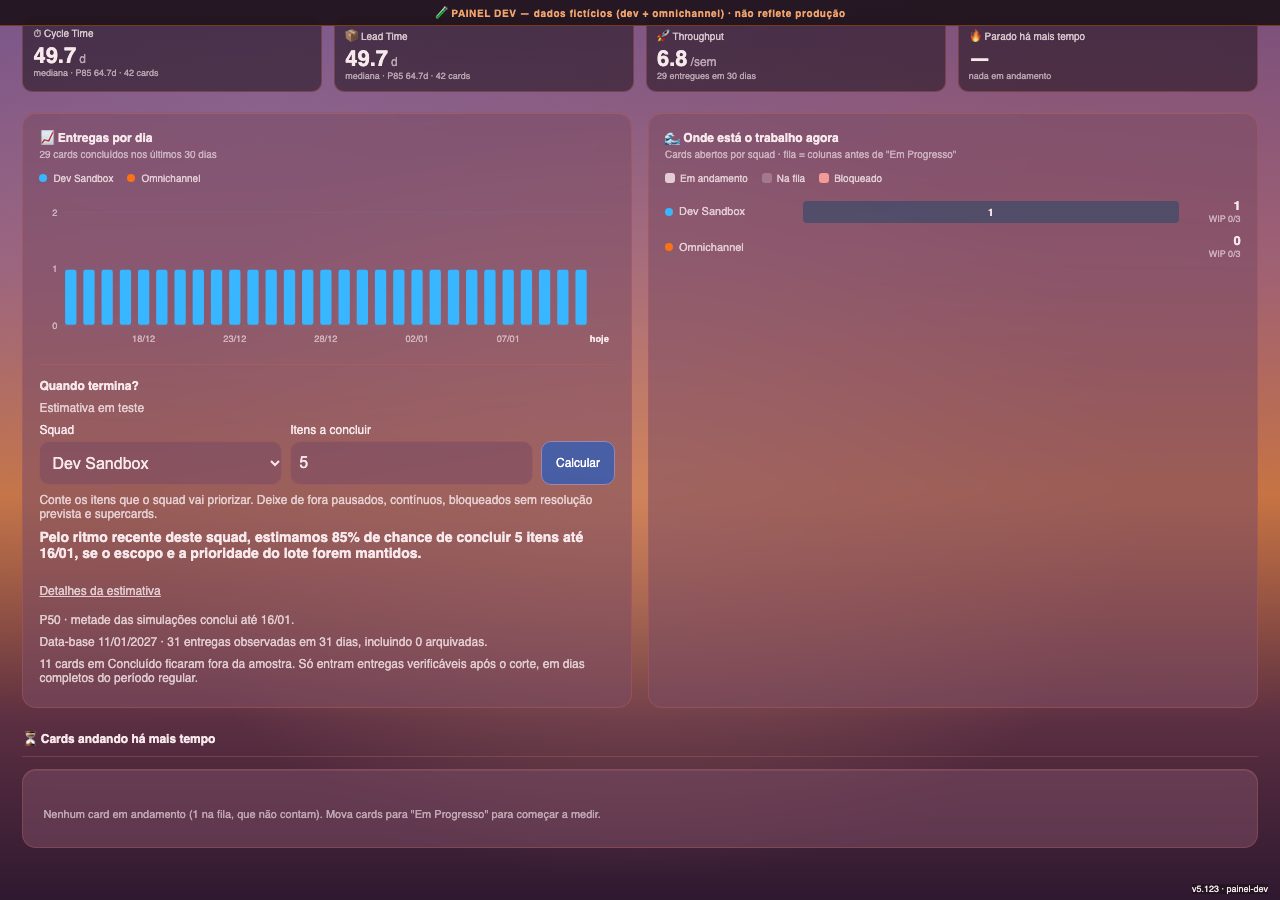
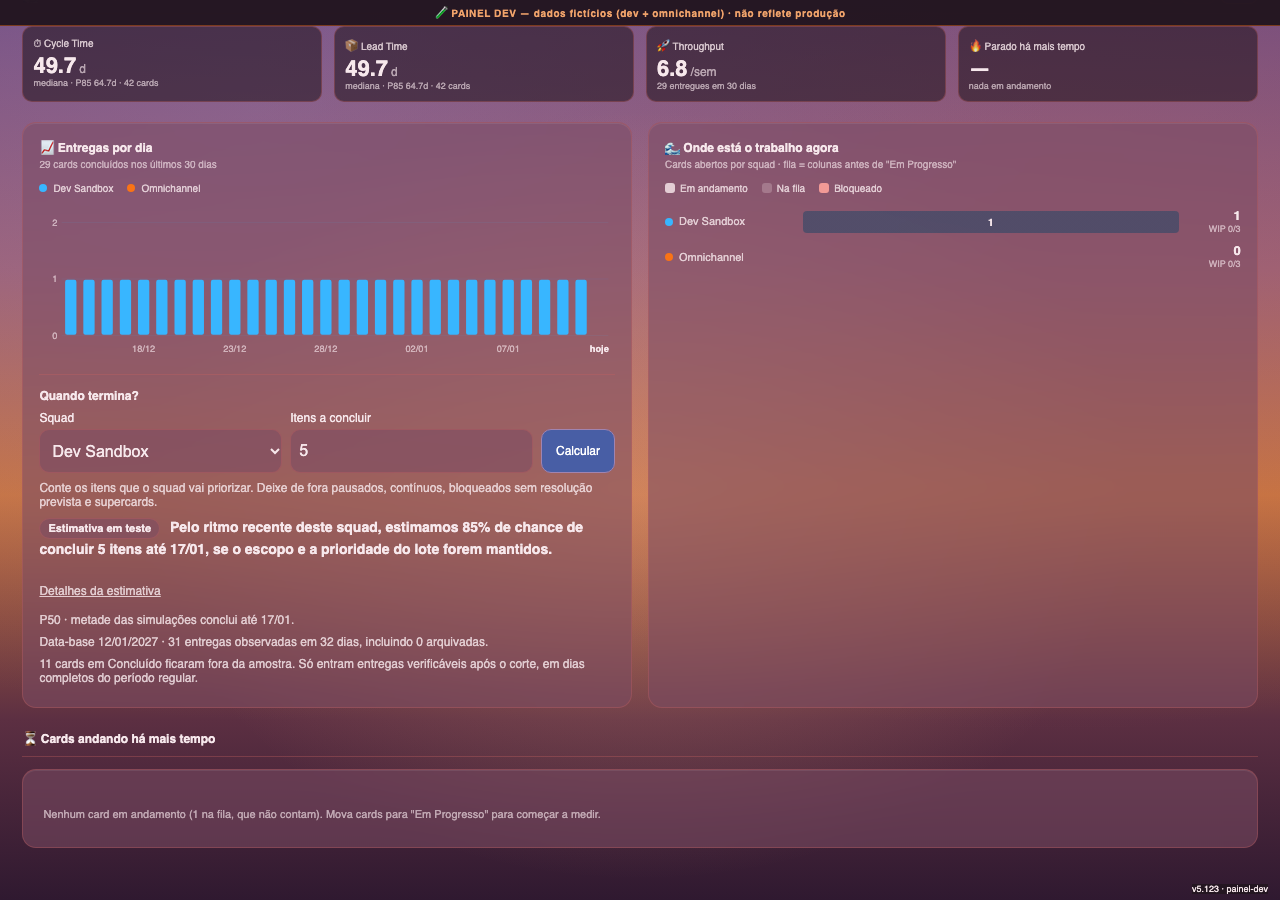
fix: exige dados do dia para prever conclusão
Agent: codex

diff --git a/painel-dev.html b/painel-dev.html
@@ -1634,7 +1634,9 @@ body.painel-viewer-mode [data-sqid]{ display:none !important; }
   border:1px solid var(--glass-b);border-radius:var(--r);background:var(--glass);color:var(--txt);}
 .flow-forecast summary{display:flex;align-items:center;cursor:pointer;text-decoration:underline;}
 .flow-forecast :is(input,select,button,summary):focus-visible{outline:2px solid var(--accent);outline-offset:2px;}
-#flow-forecast-status{font-size:14px;font-weight:600;}
+.flow-forecast-result{font-size:14px;font-weight:600;line-height:1.55;}
+.flow-forecast-badge{display:inline-block;margin-right:6px;padding:1px 8px;border:1px solid var(--glass-b);
+  border-radius:999px;background:var(--glass);color:var(--txt);font-size:11px;white-space:nowrap;}
 @media(max-width:600px){.flow-forecast form{grid-template-columns:minmax(0,1fr);}}
 
 [data-theme="light"] .pt-avatar{color:var(--txt);background:var(--glass);}
@@ -1969,14 +1971,16 @@ window.MARE_LOGIN_PELO_OCEANO = true;
         <div class="tp-chart-wrap" id="throughput-chart"></div>
         <section id="flow-forecast" class="flow-forecast" aria-labelledby="flow-forecast-title" hidden>
           <h3 id="flow-forecast-title" class="flow-card-hd">Quando termina?</h3>
-          <p class="flow-forecast-note">Estimativa em teste</p>
           <form id="flow-forecast-form">
             <label>Squad<select id="flow-forecast-squad" class="fi"></select></label>
             <label>Itens a concluir<input id="flow-forecast-count" class="fi" type="number" required min="1" step="1" inputmode="numeric"></label>
             <button class="btn btn-p" type="submit">Calcular</button>
           </form>
           <p class="flow-forecast-note">Conte os itens que o squad vai priorizar. Deixe de fora pausados, contínuos, bloqueados sem resolução prevista e supercards.</p>
-          <p id="flow-forecast-status" role="status">Escolha um squad e informe quantos itens quer planejar.</p>
+          <p class="flow-forecast-result" role="status">
+            <span id="flow-forecast-badge" class="flow-forecast-badge" hidden>Estimativa em teste</span>
+            <span id="flow-forecast-status">Escolha um squad e informe quantos itens quer planejar.</span>
+          </p>
           <details id="flow-forecast-details" hidden>
             <summary>Detalhes da estimativa</summary>
             <p id="flow-forecast-median"></p>
@@ -12228,6 +12232,7 @@ function _forecastDistributions({buckets,future}){
 let _forecastResultConfig=null;
 function _forecastReset(){
   _forecastResultConfig=null;
+  document.getElementById('flow-forecast-badge').hidden=true;
   document.getElementById('flow-forecast-details').hidden=true;
   document.getElementById('flow-forecast-status').textContent='Escolha um squad e informe quantos itens quer planejar.';
 }
@@ -12252,9 +12257,17 @@ let _forecastSuggestionReady=false;
 function _forecastConfig(data){
   return JSON.stringify([data.flowBaseline?.at,_forecastFinalColumns(data).map(c=>c.id)]);
 }
+function _forecastHasFreshData(id,today){
+  const fetchedAt=_squadDadosAt[id];
+  return !_squadDadosFailed.has(id) && !!squadData[id]?.forecastHasColumns
+    && Number.isFinite(fetchedAt) && _forecastCivil(fetchedAt)>=today;
+}
+
 function _renderFlowForecast(){
   const section=document.getElementById('flow-forecast');
   const select=document.getElementById('flow-forecast-squad');
+  const status=document.getElementById('flow-forecast-status');
+  if(!section || !select?.options || !status) return;
   const pilots=SQUADS.filter(s=>FLOW_FORECAST_PILOTS.includes(s.id) && squadVisible(s.id));
   section.hidden=!pilots.length;
   const old=select.value;
@@ -12276,7 +12289,9 @@ function _renderFlowForecast(){
   if(_forecastResultConfig!==null && (!data?.forecastHasColumns || _forecastResultConfig!==_forecastConfig(data))) _forecastReset();
   if(pilots.length && _squadDadosFailed.has(select.value)){
     _forecastReset();
-    document.getElementById('flow-forecast-status').textContent=FLOW_FORECAST_MESSAGES.data;
+    status.textContent=FLOW_FORECAST_MESSAGES.data;
+  } else if(status.textContent===FLOW_FORECAST_MESSAGES.data && _forecastHasFreshData(select.value,_forecastCivil(Date.now()))){
+    _forecastReset();
   }
 }
 
@@ -12295,7 +12310,11 @@ document.getElementById('flow-forecast-form').addEventListener('submit',event=>{
   }
   const today=_forecastCivil(Date.now());
   const data=squadData[id];
-  const sample=_forecastSample(!_squadDadosFailed.has(id) && data?.forecastHasColumns ? data : null,today);
+  if(!_forecastHasFreshData(id,today)){
+    status.textContent=FLOW_FORECAST_MESSAGES.data;
+    return;
+  }
+  const sample=_forecastSample(data,today);
   if(sample.state!=='ready'){
     status.textContent=FLOW_FORECAST_MESSAGES[sample.state];
     return;
@@ -12312,6 +12331,7 @@ document.getElementById('flow-forecast-form').addEventListener('submit',event=>{
   document.getElementById('flow-forecast-exclusions').textContent=sample.excluded+
     ' cards em Concluído ficaram fora da amostra. Só entram entregas verificáveis após o corte, em dias completos do período regular.';
   _forecastResultConfig=_forecastConfig(data);
+  document.getElementById('flow-forecast-badge').hidden=false;
   document.getElementById('flow-forecast-details').hidden=false;
 });
 

diff --git a/docs/arezzo/testes/test_painel_monte_carlo.js b/docs/arezzo/testes/test_painel_monte_carlo.js
@@ -185,6 +185,7 @@ async function main(){
     await clickCalculate(page,150);
     await checkMessage(page,/nos próximos 30 dias/);
     assert.ok(await page.locator('#flow-forecast-details').isHidden());
+    assert.ok(await page.locator('#flow-forecast-badge').isHidden());
     for(const [day,re] of [
       ['2026-11-18',/pausa na Black Friday/],['2027-01-07',/28 dias/],['2027-01-08',/quatro ocorrências/],
     ]){
@@ -193,7 +194,22 @@ async function main(){
       await checkMessage(page,re);
     }
 
-    await page.clock.setFixedTime(new Date('2027-01-11T13:00:00Z'));
+    await page.clock.setFixedTime(new Date('2027-01-11T23:59:00-03:00'));
+    await clickCalculate(page,5);
+    await checkMessage(page,/85% de chance/);
+    await page.clock.setFixedTime(new Date('2027-01-12T00:00:00-03:00'));
+    const beforeStale=await page.evaluate(()=>window.__log.length);
+    await clickCalculate(page,5);
+    await checkMessage(page,/Atualize o Painel/);
+    assert.ok(await page.locator('#flow-forecast-details').isHidden());
+    assert.ok(await page.locator('#flow-forecast-badge').isHidden());
+    assert.deepEqual(await page.evaluate(start=>window.__log.slice(start),beforeStale),[]);
+    await page.evaluate(()=>_pollSquadDados('dev',true));
+    await page.waitForFunction(()=>_squadDadosAt.dev===Date.now() && !_squadDadosInflight.dev);
+    await clickCalculate(page,5);
+    await checkMessage(page,/85% de chance/);
+    console.log('✅ Virada da meia-noite em São Paulo recusa dados do dia anterior sem buscar; atualizar libera o cálculo');
+
     await page.evaluate(()=>{
       window.__denyGet=p=>p.endsWith('/dev/dados/columns');
       _pollSquadDados('dev',true);
@@ -202,7 +218,8 @@ async function main(){
     await clickCalculate(page,5);
     await checkMessage(page,/Atualize o Painel/);
     await page.evaluate(()=>{window.__denyGet=null;_pollSquadDados('dev',true);});
-    await page.waitForFunction(()=>!_squadDadosFailed.has('dev'));
+    await page.waitForFunction(()=>!_squadDadosFailed.has('dev') && !_squadDadosInflight.dev);
+    assert.doesNotMatch(await page.locator(status).textContent(),/Atualize o Painel/);
     await clickCalculate(page,5);
     await checkMessage(page,/85% de chance/);
     await page.evaluate(()=>setFilter('omnichannel'));
@@ -225,11 +242,13 @@ async function main(){
           return { overflow:section.scrollWidth>section.clientWidth,
             outOfViewport:box.left<0||box.right>innerWidth,
             heights:controls.map(el=>el.getBoundingClientRect().height),
-            status:section.querySelector('[role=status]').textContent };
+            status:section.querySelector('[role=status]').textContent,
+            badge:section.querySelector('#flow-forecast-badge').getBoundingClientRect().width };
         });
         assert.ok(!layout.overflow && !layout.outOfViewport,JSON.stringify(layout));
         assert.ok(layout.heights.every(h=>h>=44),JSON.stringify(layout));
-        assert.match(layout.status,/85%/);
+        assert.match(layout.status,/Estimativa em teste\s+Pelo ritmo recente.*85%/);
+        assert.ok(layout.badge>0);
         if(process.env.CAPTURAS){
           fs.mkdirSync(process.env.CAPTURAS,{recursive:true});
           await page.locator('#flow-forecast').evaluate(el=>el.scrollIntoView({block:'center'}));

diff --git a/docs/CODE_SYMBOLS.md b/docs/CODE_SYMBOLS.md
@@ -189,68 +189,68 @@
 - openMural:L44337 · _swMuralTab:L44343 · renderMuralLista:L44354 · _abrirComunicadoDoMural:L44382 · enviarFeedback:L44399 · _lsGet:L44437 · _lsSet:L44438 · wire:L44519 · frame:L44574 · updateFromClientX:L44578
 - stop:L44595
 
-## `painel-dev.html` (14413 linhas · 577 funções)
-- **CSS:** L12–L1658 | **JS:** L1659–L1668 (classic), L1669–L1682 (classic), L1683–L1689 (classic), L3241–L3367 (classic), L3370–L3476 (module), L3483–L14207 (classic) | **Módulos:** mare-notif-dev.js?v=44 (L3477), mare-metas-dev.js?v=19 (L3478), mare-plantao-dev.js?v=5 (L3479), mare-dicas-dev.js?v=18 (L3480), mare-gxl-dev.js?v=2 (L3481)
-- **Consts (123):** AG_NO:L3246 · AG_CFG:L3247 · AG_ABAS:L3248 · AG_PERIODOS:L3249 · AG_FILTRO_RE:L3250 · AG_ABA_ROTULO:L3251 · AG_CHIPS:L3253 · firebaseConfig:L3388 · app:L3405 · db:L3406 · auth:L3407 · storage:L3408 · provider:L3409 · calProvider:L3413 · msProvider:L3435 · VICE_LONGPRESS_MS:L3524 · _dbg:L3578 · _DBG_LOG_PATH:L3579 · _DBG_DAILY_PATH:L3580 · GERENCIAS:L3779 · OKR_PRESENCE_TTL_MS:L3961 · _SQUAD_COLORS_CAMP:L4029 · _SQ_LABELS:L4037 · CAMP_TEMAS:L4077 · CAMP_TIPO_ICONS:L4085 · CAMP_TIPO_LABELS:L4086 · MESES:L4229 · DOW:L4230 · _pTag:L4264 · KNOWN_SQUADS:L4743 · _SQ_FB:L4867 · PAINEL_CAMP_TEMAS:L4995 · PAINEL_SQ_COLORS:L4999 · SUBMARCA_TAGS:L5501 · CANAL_VENDA_TAGS:L5520 · LEMP_TIPOS:L5741 · PCAL_COLORS:L6027 · DYNAMIC_COLOR_PALETTE:L6039 · SQUAD_COLOR_MAP:L6063 · OKR_PAGE:L6083 (+83)
-- **[🤖 Agente Ágil no Painel — gaveta de conversa (docs/AGENTE_A]** agIniciar:L3261 · agEncerrar:L3280 · agContexto:L3285 · agAtualizarContexto:L3292 · agAlternar:L3297 · agEsc:L3306 · agEscutar:L3307 · agHora:L3312 · agMd:L3315 · agMsgHtml:L3323
-- agRender:L3333 · agIniciarEspera:L3344 · agFimEspera:L3348 · agPerguntar:L3349 · agEnviar:L3350 · agIr:L3360 · esc:L3377 · jsq:L3386 · _requestCalendarScope:L3417 · _signInMicrosoft:L3438
-- _fcmGetToken:L3459 · _fcmDeleteToken:L3460 · _signIn:L3463 · _signOut:L3464 · _currentTheme:L3493 · _applyThemeButtonIcon:L3498 · toggleTheme:L3505 · _themeBtnPointerDown:L3527 · _themeBtnPointerUp:L3536 · toggleViceCity:L3539
-- exitViceCity:L3547 · _dbgSize:L3581 · _dbgTrack:L3585 · _dbgMerge:L3593 · _dbgFlush:L3606 · _dbgStart:L3644 · debugBytesOn:L3650 · debugBytesOff:L3651 · debugBytesReport:L3656 · debugBytesRemote:L3664
-- debugBytesClearRemote:L3692 · _dbgDailyRows:L3695 · debugBytesHistory:L3713 · debugBytesExportCSV:L3724 · safeUrl:L3749 · _hrefOk:L3751 · _corCssOk:L3752 · _colsSegurasP:L3753 · _tagsSegurasP:L3754 · setFilter:L3758
-- gerenciaSquadIds:L3784 · renderGerenciaBar:L3791 · squadVisible:L3800 · openCfg:L3809 · closeCfg:L3831 · calcCfgEnd:L3836 · saveCfg:L3844 · showToast:L3867 · loadPresence:L3889 · renderOnline:L3902
-- _painelSendHeartbeat:L3933 · _painelPresenceStart:L3941 · loadPainelPresence:L3950 · loadOkrPresence:L3962 · renderOkrOnlineVisao:L3967 · renderPainelOnline:L3978 · _pGetTag:L4000 · _pGetCards:L4010 · _pGetColumns:L4013 · _pGetCardTags:L4016
-- _pOpenCard:L4022 · _pSafeUrl:L4026 · _sqColor:L4036 · _sqLabel:L4038 · setCampViewMode:L4045 · setCampSqFilter:L4065 · _campRef:L4097 · _isPOorOrg:L4098 · _campLogRef:L4099 · _logCampAction:L4100
-- _fmtCampLogTs:L4108 · _applyCampPerms:L4112 · openCampLogs:L4118 · closeOv:L4139 · _uiModalPainel:L4145 · uiAlert:L4169 · uiConfirm:L4170 · _dpOpen:L4176 · _dpOutside:L4195 · _dpClose:L4199
-- _dpNav:L4205 · _dpToday:L4211 · _dpPick:L4216 · _dpRender:L4225 · uiPrompt:L4260 · loadCampanhas:L4273 · openCamp:L4289 · campBack:L4299 · _applyTemaPanel:L4307 · renderCampList:L4314
-- openCampDetalhe:L4382 · renderCampDetalhe:L4393 · _campGridCtx:L4437 · _mdAttr:L4606 · _renderMd:L4607 · _renderEntrada:L4630 · campAddLink:L4661 · _renderComposerLinks:L4670 · saveCampEntrada:L4682 · delCampEntrada:L4710
-- openCampEdit:L4716 · _renderCampTagPicker:L4752 · campToggleTag:L4773 · campSelTema:L4780 · saveCamp:L4786 · openCampCardsGrid:L4830 · _renderCampCardsGrid:L4855 · _filterTimeline:L4895 · toggleCampComposer:L4932 · _renderFixedLinks:L4943
-- campAddFixedLink:L4952 · campDelFixedLink:L4963 · campDeleteFromDetail:L4970 · campDeleteCurrent:L4981
-- **[CAMPANHAS & COLEÇÕES — PAINEL (lista + gerenciamento)]** _painelSqColor:L5005 · loadPainelCampanhas:L5009 · _checkPainelAdmCamp:L5013 · renderPainelCamp:L5018 · loadGruposCamp:L5174 · _pmsSwitchTab:L5181 · openPainelCampMsEdit:L5190 · _pmsToggleSq:L5280 · painelCampActivateAll:L5288 · _pmsNovoGrupo:L5320
-- _pmsEditGrupo:L5326 · _pmsEditGrupoCampanhas:L5331 · _pmsSalvarGrupo:L5352 · _pmsDelGrupo:L5383 · _isPOouOrgEmAlgumSquad:L5403 · renderOKR:L5410 · renderRiscos:L5454 · _cardTagIds:L5536 · _pvDonutGradient:L5537 · _pvBarRow:L5548
-- renderPainelInsights:L5558 · _isAdmPainel:L5746 · _avisosQuadroSquad:L5749 · _collectLembretesPainel:L5772 · renderLembretesPainel:L5795 · _renderLempForm:L5838 · _updLempBtn:L5855 · addLembretePainel:L5860 · delLembretePainel:L5876 · loadAgentUsage:L5895
-- renderAgentLogs:L5912 · openPcModal:L5934 · closePcModal:L6004 · checklistPct:L6018 · _squadColorFor:L6053 · _pcalGcalErrors:L6072 · _isPtab:L6079 · togglePcalSection:L6080 · _iniciarPlantao:L6085 · swPtab:L6094
-- _restoreTab:L6125 · setPcalTab:L6136 · pcalNav:L6154 · pcalGoToday:L6160 · _gcalColorFor:L6177 · renderPcalSquadFilterBar:L6184 · togglePcalSquadFilter:L6197 · togglePcalPrazos:L6204 · getAllPcalPrazos:L6212 · getAllPcalEvents:L6231
-- _forcarLimpezaCacheGcal:L6252 · limpaPath:L6262 · _migrarSquadMidiaParaPrf:L6343 · _limparCampanhasTesteDoProd:L6421 · _applyGcalCacheCleaning:L6447 · renderPcal:L6492 · renderPcalGestao:L6527 · makePcalDay:L6548 · openPcalDayPopover:L6580 · closePcalDayPopover:L6632
-- renderPcalLegend:L6636 · openPevModal:L6658 · closePevModal:L6673 · deletePcalEvent:L6675 · renderPevColors:L6689 · selectPevColor:L6695 · getSelPevColor:L6696 · savePevEvent:L6702 · deletePevEvent:L6721 · loadPcalEvents:L6729
-- togglePcalAgendasCfg:L6777 · renderPcalAgendasList:L6785 · _pcalGcalTokenLimpar:L6831 · _pcalGcalToken:L6832 · addPcalAgenda:L6841 · removePcalAgenda:L6868 · _pcalGcalWarnBanner:L6890 · reconectarPcalGCal:L6894 · carregarPcalAgendasGlobais:L6906 · deletePcalGcalEvent:L7010
-- restorePcalGcalDismissed:L7021 · toggleMonitorSection:L7054 · setErrFilter:L7056 · getFilteredErrors:L7077 · setDateFilter:L7089 · renderErrors:L7094 · renderErrChart:L7164 · cycleErrStatus:L7214 · resolveAllErrors:L7222 · clearResolvedErrors:L7236
-- _fmtBytes:L7245 · _stPesoLoad:L7256 · _stPesoSave:L7263 · _ghStyleFor:L7287 · initGithubStatusMonitor:L7295 · _limparHtmlStatus:L7312 · _linkSeguroStatus:L7325 · _statusIncidenteRecente:L7333 · _setStatusPill:L7340 · loadGithubStatus:L7349
-- renderGithubStatusUI:L7399 · _fbMatchServicos:L7600 · initFirebaseStatusMonitor:L7630 · loadFirebaseStatus:L7644 · renderFirebaseStatusUI:L7711
-- **[🛡 SAÚDE DOS CARDS (03/11/2026)]** _scQuando:L7912 · _scPagina:L7913 · _scLer:L7914 · _scCausa:L7916 · _scPodeResolver:L7925 · _scMontarEventos:L7928 · _scSaude:L7953 · _scItemHtml:L7960 · _scRender:L7976 · _scResolver:L8007
-- _scCliqueLista:L8021 · loadSaudeCards:L8037 · loadStatusData:L8059 · deslogarTodos:L8177 · carregarConfigInatividade:L8188 · salvarConfigInatividade:L8204 · loadPainelNotifs:L8222 · _painelLoadLembretes:L8269 · _painelSyncFeed:L8285 · _mergePainelNotifs:L8292
-- _markOnePainelNotifRead:L8301 · markAllPainelNotifsRead:L8309 · clearReadPainelNotifs:L8338 · renderPainelNotifs:L8366 · _relTime:L8419 · togglePainelNotif:L8431 · _localDateStr:L8460 · loadComunicados:L8476 · _seedComunicadoRascunhos:L8681 · _comunicadoOndeTxt:L8718
-- _comunicadoSquadsAlvo:L8722 · _comunicadoAlvoLabel:L8727 · renderComunicadosLista:L8732 · _toggleArquivadosComunicado:L8779 · renderArquivadosComunicado:L8787 · arquivarComunicado:L8812 · reativarComunicado:L8821 · _ccToggleArquivar:L8829 · renderRascunhosComunicado:L8841 · descartarRascunhoComunicado:L8865
-- deleteComunicadoDireto:L8875 · _ccPopulaSquadSelect:L8884 · _ccToggleSquadChip:L8893 · _ccRenderSquadChips:L8905 · _ccGetSquadPayload:L8924 · _ccFormat:L8933 · openComunicadoCompose:L8943 · _ccTogglePrioridadeUI:L9002 · closeComunicadoCompose:L9018 · _painelResolveComunicadoAlvos:L9034
-- _painelNotifyBroadcast:L9066 · saveComunicado:L9098 · deleteComunicado:L9156 · _sanitizeComunicadoHtml:L9163 · loadFeedback:L9193 · setFbFilter:L9202 · renderFbLista:L9210 · _fbSetStatus:L9247 · _fbDelete:L9251 · loadUsoData:L9257
-- _errSqShort:L9422 · renderErrStatsCards:L9430 · renderErrSquadFilterRow:L9445 · loadErrorLogs:L9465 · loadAdmList:L9498 · renderAdmList:L9507 · addAdmEmail:L9525 · removeAdmEmail:L9544 · saveAdmEmails:L9566 · loadAgentesExternosPainel:L9599
-- renderAgentesExternosPainel:L9611 · _agenteExternoAutor:L9677 · criarAgenteExternoPainel:L9679 · salvarAgenteExternoPainel:L9714 · toggleAgenteExternoSquad:L9736 · excluirAgenteExternoPainel:L9750 · _fillAgentesLogSquadFilter:L9768 · loadAgentesTabData:L9775 · renderAgentesAtivosGrid:L9799 · renderAgentesLogCross:L9824
-- openAgentesHelp:L9857 · closeAgentesHelp:L9858 · _viewerRegistrarAcesso:L9873 · _viewerTempoRel:L9884 · _viewerDataBR:L9890 · _viewerStatus:L9892 · _viewerOrdena:L9901 · renderPainelViewers:L9905 · addPainelViewer:L9931 · removePainelViewer:L9944
-- openPainelViewersModal:L9951 · closePainelViewersModal:L9956 · isDadosEditor:L9966 · _todayStr:L9968 · _fmtDateBR:L9972 · _numVal:L9973 · loadDadosConfig:L9975 · loadDadosDiarios:L9988 · _pmetasUser:L9996 · renderDadosMetas:L9997
-- _pmetasPessoas:L10010 · dadosMetaNova:L10016 · dadosMetaEditar:L10020 · _pmetasIniciar:L10024 · renderDadosTab:L10028 · loadDadosFormForDate:L10049 · uploadDadosPdf:L10064 · renderDadosApresList:L10084 · addDadosApresentacao:L10097 · removeDadosApresentacao:L10109
-- saveDadosApresentacoes:L10114 · publishDadosPost:L10120 · editDadosPost:L10153 · deleteDadosPost:L10159 · renderDadosHistorico:L10167 · renderDadosEditorList:L10193 · addDadosEditor:L10219 · removeDadosEditor:L10232 · setPcfgTab:L10243 · renderPcfgDicas:L10256
-- renderPcfgGantt:L10286 · _pcfgGanttDesenha:L10295 · pcfgGanttArquivo:L10334 · pcfgGanttCancelar:L10349 · pcfgGanttPublicar:L10350 · _plSync:L10361 · loadPlinks:L10362 · _plSorted:L10365 · renderPlinks:L10366 · resetPlinkForm:L10391
-- editPlink:L10392 · savePlink:L10394 · removePlink:L10412 · movePlink:L10416 · _pagesSwitcherRender:L10441 · togglePagesSwitcher:L10452 · loadPcfgUsers:L10461 · updateUserRole:L10507 · addGuestByEmail:L10538 · initHiddenCols:L10566
-- isColVisible:L10572 · toggleSqCol:L10575 · squadBoardUrl:L10592 · _sqTxt:L10596 · _sqCorOk:L10597 · loadExtraSquads:L10600 · renderSquadLinks:L10631 · renderFilterBar:L10646 · isAdmUser:L10659 · doSignIn:L10663
-- doSignInMicrosoft:L10670 · doSignOut:L10675 · _isTrustedDomainEmail:L10684 · _loginProviderMismatchMsg:L10688 · _painelViewerKey:L10723 · _irParaOceano:L10728 · _oceanoDoDia:L10749 · _finishPainelLogin:L10831 · _painelEnsureUserRecord:L10873 · _blockIfPainelViewer:L10900
-- _painelTryOpenTabFromUrl:L10916 · loadLembretesGestao:L10949 · loadKudosGeral:L10964 · _refreshKudosGeral:L10974 · _kudosUserOpts:L10989 · renderKudosPainel:L10999 · _updKudospBtn:L11038 · addKudosPainel:L11043 · delKudosPainel:L11069 · _renderKudospReactions:L11076
-- toggleKudospReaction:L11090 · _squadMembersFromGlobalCache:L11120 · openGlobalUsersModal:L11126 · closeGlobalUsersModal:L11134 · _guRefreshSoon:L11147 · _guWrapWrites:L11163 · _usuariosNode:L11175 · _getUsuariosMap:L11176 · loadGlobalUsers:L11185 · _guDiretoriaDe:L11238
-- _guPodeEditarDiretoria:L11240 · _guTorreDe:L11245 · _guEmpresa:L11247 · _guTemPapel:L11255 · _guNoSquad:L11259 · _guTemFiltro:L11263 · _guSetFilter:L11267 · _guClearFilters:L11268 · _guFiltersHtml:L11273 · renderGlobalUsers:L11296
-- toggleAdmUser:L11495 · setGlobalUserTorre:L11510 · _guSemDiretoriaHering:L11520 · _guPreencherDigital:L11524 · _guCarregarEspelhoDir:L11553 · _guEspelhoDivergente:L11561 · _guGravarEspelhoDir:L11566 · _guCorrigirEspelho:L11574 · setGlobalUserDiretoria:L11595 · toggleGestorOkr:L11614
-- toggleUserSquad:L11621 · updateSquadUserRole:L11659 · deleteGlobalUser:L11673 · _applySquadDados:L11705 · _ccDb:L11790 · _ccKey:L11813 · _ccClearAll:L11817 · _ccLoad:L11825 · _ccSaveSoon:L11840 · _fetchCardsFull:L11852
-- _fetchCardsDelta:L11868 · _fetchSquadDados:L11890 · _pollSquadDados:L11917 · _pollSquadSnapshots:L11942 · loadAll:L11962 · _painelFullRefresh:L11982 · renderAll:L11984 · updateTimestamp:L12000 · renderSquadCards:L12006 · renderColToggle:L12060
-- renderConsolidated:L12079 · _forecastDate:L12121 · _forecastDay:L12124 · _forecastWeekday:L12125 · _forecastIn:L12126 · _forecastPaused:L12127 · _forecastCivil:L12128 · _forecastLabel:L12129 · _forecastFinalColumns:L12134 · _forecastSample:L12136
-- _forecastRandom:L12197 · _forecastRun:L12206 · _forecastDistributions:L12224 · _forecastReset:L12229 · _forecastSuggest:L12235 · _forecastConfig:L12252 · _renderFlowForecast:L12255 · setFlowWindow:L12319 · flowColsFor:L12327 · _squadCycleArr:L12337
-- _squadThroughput14:L12349 · _squadMaxAge:L12359 · _startTs:L12373 · _doneTs:L12380 · _createdTs:L12386 · percentile:L12392 · median:L12398 · _flowStage:L12403 · _hexA:L12413 · _sqCor:L12418
-- _sqNome:L12419 · _collectFlowCards:L12425 · _flowVal:L12456 · renderFlowMetrics:L12457 · renderThroughputChart:L12499 · renderCFD:L12564 · renderAgingWip:L12603 · resetSquadFlow:L12642 · updateFlowBaselineLabel:L12690 · renderComparison:L12703
-- resolveOwnerName:L12746 · resolveAllBlockers:L12770 · showPainelToast:L12843 · renderBlockers:L12857 · _painelTimelineSetFilter:L12938 · _painelTimelineSetFilterTexto:L12947 · _painelTimelineClearFilters:L12951 · _painelTimelineOwnerOptions:L12960 · _ptCardHasTagLabel:L12969 · _painelTimelineTagOptions:L12973
-- _painelTimelinePassesLocalFilter:L12981 · _painelTimelineSetOpen:L13000 · _painelTimelineToggleAll:L13003 · _painelTimelineExpandBucket:L13018 · _painelTimelineFimSemana:L13022 · _ptHexA:L13040 · _ptCardTags:L13044 · _ptTagsHtml:L13049 · _painelOwnerAvatarHtml:L13058 · _painelTimelineRow:L13067
-- renderPainelTimeline:L13096 · _ptDateOnlyLocalStr:L13224 · _ptMarcosNoPeriodo:L13228 · _ptFeedRow:L13263 · _ptFeedResetFilter:L13303 · _ptFeedMatchesBase:L13306 · _ptFeedMatches:L13313 · ptFeedToggleTipo:L13317 · ptFeedSetFilter:L13318 · ptFeedClearFilter:L13319
-- _ptFeedPeriodoLabel:L13320 · openPainelHistorico:L13328 · closePainelFeed:L13346 · _ptFeedBuscarPeriodo:L13349 · _renderPtFeed:L13358 · renderTrend:L13436 · renderColDist:L13461 · _ncAberta:L13502 · _ncCfg:L13503 · _ncAlterado:L13504
-- _ncDnd:L13506 · _ncAparelhos:L13511 · _ncNome:L13512 · _ncUso:L13514 · _ncFmtData:L13526 · renderNotifCentral:L13528 · ncAbrir:L13613 · ncBusca:L13614 · ncFiltroTipos:L13615 · ncFiltroPessoas:L13616
-- ncAtualizar:L13617 · _ncPor:L13618 · _ncPapelGrava:L13622 · _ncErroGravar:L13629 · ncSet:L13636 · ncRestaurar:L13650 · ncRestaurarTudo:L13655 · openBoardSetup:L13669 · closeBoardSetup:L13676 · bsSelectEmoji:L13680
-- bsSelectColor:L13687 · bsUpdatePreview:L13693 · bsRenderExisting:L13711 · saveNewBoard:L13733 · bsDeleteBoard:L13801 · showBsToast:L13823 · loadSquadData:L13840 · openGlobalBackup:L13870 · closeGlobalBackup:L13878 · buildGlobalPayload:L13888
-- exportAllSquadsJSON:L13914 · exportEachSquadJSON:L13930 · copyAllSquadsJSON:L13960 · renderGlobalBackupStats:L13970 · _initGbCfgListener:L14003 · saveGlobalBackupCfg:L14016 · loadGlobalBackupCfg:L14029 · updateGlobalBackupStatus:L14042 · sendGlobalBackupEmail:L14050 · testGlobalBackupEmail:L14103
-- checkOverdueGlobalBackup:L14111 · _onRealAuthChange:L14130 · _auGetCurrentVersion:L14152 · _auModalOpen:L14156 · _auTyping:L14161 · _auShowBanner:L14169 · _auTryIdleReload:L14180 · _auCheckVersion:L14186
+## `painel-dev.html` (14433 linhas · 578 funções)
+- **CSS:** L12–L1660 | **JS:** L1661–L1670 (classic), L1671–L1684 (classic), L1685–L1691 (classic), L3245–L3371 (classic), L3374–L3480 (module), L3487–L14227 (classic) | **Módulos:** mare-notif-dev.js?v=44 (L3481), mare-metas-dev.js?v=19 (L3482), mare-plantao-dev.js?v=5 (L3483), mare-dicas-dev.js?v=18 (L3484), mare-gxl-dev.js?v=2 (L3485)
+- **Consts (123):** AG_NO:L3250 · AG_CFG:L3251 · AG_ABAS:L3252 · AG_PERIODOS:L3253 · AG_FILTRO_RE:L3254 · AG_ABA_ROTULO:L3255 · AG_CHIPS:L3257 · firebaseConfig:L3392 · app:L3409 · db:L3410 · auth:L3411 · storage:L3412 · provider:L3413 · calProvider:L3417 · msProvider:L3439 · VICE_LONGPRESS_MS:L3528 · _dbg:L3582 · _DBG_LOG_PATH:L3583 · _DBG_DAILY_PATH:L3584 · GERENCIAS:L3783 · OKR_PRESENCE_TTL_MS:L3965 · _SQUAD_COLORS_CAMP:L4033 · _SQ_LABELS:L4041 · CAMP_TEMAS:L4081 · CAMP_TIPO_ICONS:L4089 · CAMP_TIPO_LABELS:L4090 · MESES:L4233 · DOW:L4234 · _pTag:L4268 · KNOWN_SQUADS:L4747 · _SQ_FB:L4871 · PAINEL_CAMP_TEMAS:L4999 · PAINEL_SQ_COLORS:L5003 · SUBMARCA_TAGS:L5505 · CANAL_VENDA_TAGS:L5524 · LEMP_TIPOS:L5745 · PCAL_COLORS:L6031 · DYNAMIC_COLOR_PALETTE:L6043 · SQUAD_COLOR_MAP:L6067 · OKR_PAGE:L6087 (+83)
+- **[🤖 Agente Ágil no Painel — gaveta de conversa (docs/AGENTE_A]** agIniciar:L3265 · agEncerrar:L3284 · agContexto:L3289 · agAtualizarContexto:L3296 · agAlternar:L3301 · agEsc:L3310 · agEscutar:L3311 · agHora:L3316 · agMd:L3319 · agMsgHtml:L3327
+- agRender:L3337 · agIniciarEspera:L3348 · agFimEspera:L3352 · agPerguntar:L3353 · agEnviar:L3354 · agIr:L3364 · esc:L3381 · jsq:L3390 · _requestCalendarScope:L3421 · _signInMicrosoft:L3442
+- _fcmGetToken:L3463 · _fcmDeleteToken:L3464 · _signIn:L3467 · _signOut:L3468 · _currentTheme:L3497 · _applyThemeButtonIcon:L3502 · toggleTheme:L3509 · _themeBtnPointerDown:L3531 · _themeBtnPointerUp:L3540 · toggleViceCity:L3543
+- exitViceCity:L3551 · _dbgSize:L3585 · _dbgTrack:L3589 · _dbgMerge:L3597 · _dbgFlush:L3610 · _dbgStart:L3648 · debugBytesOn:L3654 · debugBytesOff:L3655 · debugBytesReport:L3660 · debugBytesRemote:L3668
+- debugBytesClearRemote:L3696 · _dbgDailyRows:L3699 · debugBytesHistory:L3717 · debugBytesExportCSV:L3728 · safeUrl:L3753 · _hrefOk:L3755 · _corCssOk:L3756 · _colsSegurasP:L3757 · _tagsSegurasP:L3758 · setFilter:L3762
+- gerenciaSquadIds:L3788 · renderGerenciaBar:L3795 · squadVisible:L3804 · openCfg:L3813 · closeCfg:L3835 · calcCfgEnd:L3840 · saveCfg:L3848 · showToast:L3871 · loadPresence:L3893 · renderOnline:L3906
+- _painelSendHeartbeat:L3937 · _painelPresenceStart:L3945 · loadPainelPresence:L3954 · loadOkrPresence:L3966 · renderOkrOnlineVisao:L3971 · renderPainelOnline:L3982 · _pGetTag:L4004 · _pGetCards:L4014 · _pGetColumns:L4017 · _pGetCardTags:L4020
+- _pOpenCard:L4026 · _pSafeUrl:L4030 · _sqColor:L4040 · _sqLabel:L4042 · setCampViewMode:L4049 · setCampSqFilter:L4069 · _campRef:L4101 · _isPOorOrg:L4102 · _campLogRef:L4103 · _logCampAction:L4104
+- _fmtCampLogTs:L4112 · _applyCampPerms:L4116 · openCampLogs:L4122 · closeOv:L4143 · _uiModalPainel:L4149 · uiAlert:L4173 · uiConfirm:L4174 · _dpOpen:L4180 · _dpOutside:L4199 · _dpClose:L4203
+- _dpNav:L4209 · _dpToday:L4215 · _dpPick:L4220 · _dpRender:L4229 · uiPrompt:L4264 · loadCampanhas:L4277 · openCamp:L4293 · campBack:L4303 · _applyTemaPanel:L4311 · renderCampList:L4318
+- openCampDetalhe:L4386 · renderCampDetalhe:L4397 · _campGridCtx:L4441 · _mdAttr:L4610 · _renderMd:L4611 · _renderEntrada:L4634 · campAddLink:L4665 · _renderComposerLinks:L4674 · saveCampEntrada:L4686 · delCampEntrada:L4714
+- openCampEdit:L4720 · _renderCampTagPicker:L4756 · campToggleTag:L4777 · campSelTema:L4784 · saveCamp:L4790 · openCampCardsGrid:L4834 · _renderCampCardsGrid:L4859 · _filterTimeline:L4899 · toggleCampComposer:L4936 · _renderFixedLinks:L4947
+- campAddFixedLink:L4956 · campDelFixedLink:L4967 · campDeleteFromDetail:L4974 · campDeleteCurrent:L4985
+- **[CAMPANHAS & COLEÇÕES — PAINEL (lista + gerenciamento)]** _painelSqColor:L5009 · loadPainelCampanhas:L5013 · _checkPainelAdmCamp:L5017 · renderPainelCamp:L5022 · loadGruposCamp:L5178 · _pmsSwitchTab:L5185 · openPainelCampMsEdit:L5194 · _pmsToggleSq:L5284 · painelCampActivateAll:L5292 · _pmsNovoGrupo:L5324
+- _pmsEditGrupo:L5330 · _pmsEditGrupoCampanhas:L5335 · _pmsSalvarGrupo:L5356 · _pmsDelGrupo:L5387 · _isPOouOrgEmAlgumSquad:L5407 · renderOKR:L5414 · renderRiscos:L5458 · _cardTagIds:L5540 · _pvDonutGradient:L5541 · _pvBarRow:L5552
+- renderPainelInsights:L5562 · _isAdmPainel:L5750 · _avisosQuadroSquad:L5753 · _collectLembretesPainel:L5776 · renderLembretesPainel:L5799 · _renderLempForm:L5842 · _updLempBtn:L5859 · addLembretePainel:L5864 · delLembretePainel:L5880 · loadAgentUsage:L5899
+- renderAgentLogs:L5916 · openPcModal:L5938 · closePcModal:L6008 · checklistPct:L6022 · _squadColorFor:L6057 · _pcalGcalErrors:L6076 · _isPtab:L6083 · togglePcalSection:L6084 · _iniciarPlantao:L6089 · swPtab:L6098
+- _restoreTab:L6129 · setPcalTab:L6140 · pcalNav:L6158 · pcalGoToday:L6164 · _gcalColorFor:L6181 · renderPcalSquadFilterBar:L6188 · togglePcalSquadFilter:L6201 · togglePcalPrazos:L6208 · getAllPcalPrazos:L6216 · getAllPcalEvents:L6235
+- _forcarLimpezaCacheGcal:L6256 · limpaPath:L6266 · _migrarSquadMidiaParaPrf:L6347 · _limparCampanhasTesteDoProd:L6425 · _applyGcalCacheCleaning:L6451 · renderPcal:L6496 · renderPcalGestao:L6531 · makePcalDay:L6552 · openPcalDayPopover:L6584 · closePcalDayPopover:L6636
+- renderPcalLegend:L6640 · openPevModal:L6662 · closePevModal:L6677 · deletePcalEvent:L6679 · renderPevColors:L6693 · selectPevColor:L6699 · getSelPevColor:L6700 · savePevEvent:L6706 · deletePevEvent:L6725 · loadPcalEvents:L6733
+- togglePcalAgendasCfg:L6781 · renderPcalAgendasList:L6789 · _pcalGcalTokenLimpar:L6835 · _pcalGcalToken:L6836 · addPcalAgenda:L6845 · removePcalAgenda:L6872 · _pcalGcalWarnBanner:L6894 · reconectarPcalGCal:L6898 · carregarPcalAgendasGlobais:L6910 · deletePcalGcalEvent:L7014
+- restorePcalGcalDismissed:L7025 · toggleMonitorSection:L7058 · setErrFilter:L7060 · getFilteredErrors:L7081 · setDateFilter:L7093 · renderErrors:L7098 · renderErrChart:L7168 · cycleErrStatus:L7218 · resolveAllErrors:L7226 · clearResolvedErrors:L7240
+- _fmtBytes:L7249 · _stPesoLoad:L7260 · _stPesoSave:L7267 · _ghStyleFor:L7291 · initGithubStatusMonitor:L7299 · _limparHtmlStatus:L7316 · _linkSeguroStatus:L7329 · _statusIncidenteRecente:L7337 · _setStatusPill:L7344 · loadGithubStatus:L7353
+- renderGithubStatusUI:L7403 · _fbMatchServicos:L7604 · initFirebaseStatusMonitor:L7634 · loadFirebaseStatus:L7648 · renderFirebaseStatusUI:L7715
+- **[🛡 SAÚDE DOS CARDS (03/11/2026)]** _scQuando:L7916 · _scPagina:L7917 · _scLer:L7918 · _scCausa:L7920 · _scPodeResolver:L7929 · _scMontarEventos:L7932 · _scSaude:L7957 · _scItemHtml:L7964 · _scRender:L7980 · _scResolver:L8011
+- _scCliqueLista:L8025 · loadSaudeCards:L8041 · loadStatusData:L8063 · deslogarTodos:L8181 · carregarConfigInatividade:L8192 · salvarConfigInatividade:L8208 · loadPainelNotifs:L8226 · _painelLoadLembretes:L8273 · _painelSyncFeed:L8289 · _mergePainelNotifs:L8296
+- _markOnePainelNotifRead:L8305 · markAllPainelNotifsRead:L8313 · clearReadPainelNotifs:L8342 · renderPainelNotifs:L8370 · _relTime:L8423 · togglePainelNotif:L8435 · _localDateStr:L8464 · loadComunicados:L8480 · _seedComunicadoRascunhos:L8685 · _comunicadoOndeTxt:L8722
+- _comunicadoSquadsAlvo:L8726 · _comunicadoAlvoLabel:L8731 · renderComunicadosLista:L8736 · _toggleArquivadosComunicado:L8783 · renderArquivadosComunicado:L8791 · arquivarComunicado:L8816 · reativarComunicado:L8825 · _ccToggleArquivar:L8833 · renderRascunhosComunicado:L8845 · descartarRascunhoComunicado:L8869
+- deleteComunicadoDireto:L8879 · _ccPopulaSquadSelect:L8888 · _ccToggleSquadChip:L8897 · _ccRenderSquadChips:L8909 · _ccGetSquadPayload:L8928 · _ccFormat:L8937 · openComunicadoCompose:L8947 · _ccTogglePrioridadeUI:L9006 · closeComunicadoCompose:L9022 · _painelResolveComunicadoAlvos:L9038
+- _painelNotifyBroadcast:L9070 · saveComunicado:L9102 · deleteComunicado:L9160 · _sanitizeComunicadoHtml:L9167 · loadFeedback:L9197 · setFbFilter:L9206 · renderFbLista:L9214 · _fbSetStatus:L9251 · _fbDelete:L9255 · loadUsoData:L9261
+- _errSqShort:L9426 · renderErrStatsCards:L9434 · renderErrSquadFilterRow:L9449 · loadErrorLogs:L9469 · loadAdmList:L9502 · renderAdmList:L9511 · addAdmEmail:L9529 · removeAdmEmail:L9548 · saveAdmEmails:L9570 · loadAgentesExternosPainel:L9603
+- renderAgentesExternosPainel:L9615 · _agenteExternoAutor:L9681 · criarAgenteExternoPainel:L9683 · salvarAgenteExternoPainel:L9718 · toggleAgenteExternoSquad:L9740 · excluirAgenteExternoPainel:L9754 · _fillAgentesLogSquadFilter:L9772 · loadAgentesTabData:L9779 · renderAgentesAtivosGrid:L9803 · renderAgentesLogCross:L9828
+- openAgentesHelp:L9861 · closeAgentesHelp:L9862 · _viewerRegistrarAcesso:L9877 · _viewerTempoRel:L9888 · _viewerDataBR:L9894 · _viewerStatus:L9896 · _viewerOrdena:L9905 · renderPainelViewers:L9909 · addPainelViewer:L9935 · removePainelViewer:L9948
+- openPainelViewersModal:L9955 · closePainelViewersModal:L9960 · isDadosEditor:L9970 · _todayStr:L9972 · _fmtDateBR:L9976 · _numVal:L9977 · loadDadosConfig:L9979 · loadDadosDiarios:L9992 · _pmetasUser:L10000 · renderDadosMetas:L10001
+- _pmetasPessoas:L10014 · dadosMetaNova:L10020 · dadosMetaEditar:L10024 · _pmetasIniciar:L10028 · renderDadosTab:L10032 · loadDadosFormForDate:L10053 · uploadDadosPdf:L10068 · renderDadosApresList:L10088 · addDadosApresentacao:L10101 · removeDadosApresentacao:L10113
+- saveDadosApresentacoes:L10118 · publishDadosPost:L10124 · editDadosPost:L10157 · deleteDadosPost:L10163 · renderDadosHistorico:L10171 · renderDadosEditorList:L10197 · addDadosEditor:L10223 · removeDadosEditor:L10236 · setPcfgTab:L10247 · renderPcfgDicas:L10260
+- renderPcfgGantt:L10290 · _pcfgGanttDesenha:L10299 · pcfgGanttArquivo:L10338 · pcfgGanttCancelar:L10353 · pcfgGanttPublicar:L10354 · _plSync:L10365 · loadPlinks:L10366 · _plSorted:L10369 · renderPlinks:L10370 · resetPlinkForm:L10395
+- editPlink:L10396 · savePlink:L10398 · removePlink:L10416 · movePlink:L10420 · _pagesSwitcherRender:L10445 · togglePagesSwitcher:L10456 · loadPcfgUsers:L10465 · updateUserRole:L10511 · addGuestByEmail:L10542 · initHiddenCols:L10570
+- isColVisible:L10576 · toggleSqCol:L10579 · squadBoardUrl:L10596 · _sqTxt:L10600 · _sqCorOk:L10601 · loadExtraSquads:L10604 · renderSquadLinks:L10635 · renderFilterBar:L10650 · isAdmUser:L10663 · doSignIn:L10667
+- doSignInMicrosoft:L10674 · doSignOut:L10679 · _isTrustedDomainEmail:L10688 · _loginProviderMismatchMsg:L10692 · _painelViewerKey:L10727 · _irParaOceano:L10732 · _oceanoDoDia:L10753 · _finishPainelLogin:L10835 · _painelEnsureUserRecord:L10877 · _blockIfPainelViewer:L10904
+- _painelTryOpenTabFromUrl:L10920 · loadLembretesGestao:L10953 · loadKudosGeral:L10968 · _refreshKudosGeral:L10978 · _kudosUserOpts:L10993 · renderKudosPainel:L11003 · _updKudospBtn:L11042 · addKudosPainel:L11047 · delKudosPainel:L11073 · _renderKudospReactions:L11080
+- toggleKudospReaction:L11094 · _squadMembersFromGlobalCache:L11124 · openGlobalUsersModal:L11130 · closeGlobalUsersModal:L11138 · _guRefreshSoon:L11151 · _guWrapWrites:L11167 · _usuariosNode:L11179 · _getUsuariosMap:L11180 · loadGlobalUsers:L11189 · _guDiretoriaDe:L11242
+- _guPodeEditarDiretoria:L11244 · _guTorreDe:L11249 · _guEmpresa:L11251 · _guTemPapel:L11259 · _guNoSquad:L11263 · _guTemFiltro:L11267 · _guSetFilter:L11271 · _guClearFilters:L11272 · _guFiltersHtml:L11277 · renderGlobalUsers:L11300
+- toggleAdmUser:L11499 · setGlobalUserTorre:L11514 · _guSemDiretoriaHering:L11524 · _guPreencherDigital:L11528 · _guCarregarEspelhoDir:L11557 · _guEspelhoDivergente:L11565 · _guGravarEspelhoDir:L11570 · _guCorrigirEspelho:L11578 · setGlobalUserDiretoria:L11599 · toggleGestorOkr:L11618
+- toggleUserSquad:L11625 · updateSquadUserRole:L11663 · deleteGlobalUser:L11677 · _applySquadDados:L11709 · _ccDb:L11794 · _ccKey:L11817 · _ccClearAll:L11821 · _ccLoad:L11829 · _ccSaveSoon:L11844 · _fetchCardsFull:L11856
+- _fetchCardsDelta:L11872 · _fetchSquadDados:L11894 · _pollSquadDados:L11921 · _pollSquadSnapshots:L11946 · loadAll:L11966 · _painelFullRefresh:L11986 · renderAll:L11988 · updateTimestamp:L12004 · renderSquadCards:L12010 · renderColToggle:L12064
+- renderConsolidated:L12083 · _forecastDate:L12125 · _forecastDay:L12128 · _forecastWeekday:L12129 · _forecastIn:L12130 · _forecastPaused:L12131 · _forecastCivil:L12132 · _forecastLabel:L12133 · _forecastFinalColumns:L12138 · _forecastSample:L12140
+- _forecastRandom:L12201 · _forecastRun:L12210 · _forecastDistributions:L12228 · _forecastReset:L12233 · _forecastSuggest:L12240 · _forecastConfig:L12257 · _forecastHasFreshData:L12260 · _renderFlowForecast:L12266 · setFlowWindow:L12339 · flowColsFor:L12347
+- _squadCycleArr:L12357 · _squadThroughput14:L12369 · _squadMaxAge:L12379 · _startTs:L12393 · _doneTs:L12400 · _createdTs:L12406 · percentile:L12412 · median:L12418 · _flowStage:L12423 · _hexA:L12433
+- _sqCor:L12438 · _sqNome:L12439 · _collectFlowCards:L12445 · _flowVal:L12476 · renderFlowMetrics:L12477 · renderThroughputChart:L12519 · renderCFD:L12584 · renderAgingWip:L12623 · resetSquadFlow:L12662 · updateFlowBaselineLabel:L12710
+- renderComparison:L12723 · resolveOwnerName:L12766 · resolveAllBlockers:L12790 · showPainelToast:L12863 · renderBlockers:L12877 · _painelTimelineSetFilter:L12958 · _painelTimelineSetFilterTexto:L12967 · _painelTimelineClearFilters:L12971 · _painelTimelineOwnerOptions:L12980 · _ptCardHasTagLabel:L12989
+- _painelTimelineTagOptions:L12993 · _painelTimelinePassesLocalFilter:L13001 · _painelTimelineSetOpen:L13020 · _painelTimelineToggleAll:L13023 · _painelTimelineExpandBucket:L13038 · _painelTimelineFimSemana:L13042 · _ptHexA:L13060 · _ptCardTags:L13064 · _ptTagsHtml:L13069 · _painelOwnerAvatarHtml:L13078
+- _painelTimelineRow:L13087 · renderPainelTimeline:L13116 · _ptDateOnlyLocalStr:L13244 · _ptMarcosNoPeriodo:L13248 · _ptFeedRow:L13283 · _ptFeedResetFilter:L13323 · _ptFeedMatchesBase:L13326 · _ptFeedMatches:L13333 · ptFeedToggleTipo:L13337 · ptFeedSetFilter:L13338
+- ptFeedClearFilter:L13339 · _ptFeedPeriodoLabel:L13340 · openPainelHistorico:L13348 · closePainelFeed:L13366 · _ptFeedBuscarPeriodo:L13369 · _renderPtFeed:L13378 · renderTrend:L13456 · renderColDist:L13481 · _ncAberta:L13522 · _ncCfg:L13523
+- _ncAlterado:L13524 · _ncDnd:L13526 · _ncAparelhos:L13531 · _ncNome:L13532 · _ncUso:L13534 · _ncFmtData:L13546 · renderNotifCentral:L13548 · ncAbrir:L13633 · ncBusca:L13634 · ncFiltroTipos:L13635
+- ncFiltroPessoas:L13636 · ncAtualizar:L13637 · _ncPor:L13638 · _ncPapelGrava:L13642 · _ncErroGravar:L13649 · ncSet:L13656 · ncRestaurar:L13670 · ncRestaurarTudo:L13675 · openBoardSetup:L13689 · closeBoardSetup:L13696
+- bsSelectEmoji:L13700 · bsSelectColor:L13707 · bsUpdatePreview:L13713 · bsRenderExisting:L13731 · saveNewBoard:L13753 · bsDeleteBoard:L13821 · showBsToast:L13843 · loadSquadData:L13860 · openGlobalBackup:L13890 · closeGlobalBackup:L13898
+- buildGlobalPayload:L13908 · exportAllSquadsJSON:L13934 · exportEachSquadJSON:L13950 · copyAllSquadsJSON:L13980 · renderGlobalBackupStats:L13990 · _initGbCfgListener:L14023 · saveGlobalBackupCfg:L14036 · loadGlobalBackupCfg:L14049 · updateGlobalBackupStatus:L14062 · sendGlobalBackupEmail:L14070
+- testGlobalBackupEmail:L14123 · checkOverdueGlobalBackup:L14131 · _onRealAuthChange:L14150 · _auGetCurrentVersion:L14172 · _auModalOpen:L14176 · _auTyping:L14181 · _auShowBanner:L14189 · _auTryIdleReload:L14200 · _auCheckVersion:L14206
 
 ## `okr-dev.html` (11096 linhas · 701 funções)
 - **CSS:** L12–L1645 | **JS:** L1646–L1654 (classic), L1655–L1668 (classic), L2134–L2181 (module), L2186–L11093 (classic) | **Módulos:** mare-notif-dev.js?v=44 (L2182), mare-dicas-dev.js?v=18 (L2183), mare-sonar-dev.js?v=8 (L2184)

diff --git a/CODE_MAP.md b/CODE_MAP.md
@@ -4667,7 +4667,7 @@ Raiz do domínio, como `mare-notif-dev.js`. API `window.MareDicas`: `init({app,n
 
 ### 🛡 Painel — Sanitização DOM/CSS e trava C1/C2 de papéis (`painel-dev.html` v5.100–v5.102, 2026-11-11)
 - **Sanitizadores DOM/CSS (`painel-dev.html`)**: `safeUrl()` / `_hrefOk()` — L3655/L3657, `_corCssOk()` — L3658, `_colsSegurasP()` — L3659, `_tagsSegurasP()` — L3660, `_pSafeUrl()` — L3932, `_sanitizeComunicadoHtml()` — L8946 (`DOMParser` inerte com whitelist estrita de tags e `href`), `_sqCorOk()` — L10295. Teste: `docs/arezzo/testes/test_painel_dom_xss.js`.
-- **Travas de papel (`C1/C2`)**: `updateUserRole()` (L10507) e `updateSquadUserRole()` (L11659) impedem PO de conceder `role === 'adm'` e exigem inscrição no squad-alvo; no servidor, `database.rules.json` + `functions/rules/__tests__/papelRules.test.js` garantem a mesma fronteira.
+- **Travas de papel (`C1/C2`)**: `updateUserRole()` (L10511) e `updateSquadUserRole()` (L11663) impedem PO de conceder `role === 'adm'` e exigem inscrição no squad-alvo; no servidor, `database.rules.json` + `functions/rules/__tests__/papelRules.test.js` garantem a mesma fronteira.
 
 ### 📊 Gantt dos calendários — `mare-gcal(-dev).js` (`v7` prod · `v9`-dev) & `mare-gxl(-dev).js` (`v2`) (2026-11-16)
 - **`mare-gcal-dev.js` (`window.MareGCal`, v9)**: `CALS` (marca, comercial, mktplace, outlet), `CONSOLIDADO` (aba virtual 🧭 Digital · dia a dia), `ABAS`, `NOME`, `ROT_NOVO`, `GRUPOS`, `LINHA_COR`, `CORES`, `NOME_COR`, `LARGO`, `permitido(u)`, `linhaNoGrupo(g,k)`, `linhasDe(id,d)`, `doDia(dadosPorFonte, dia, fontes)` (painel "tudo deste dia"), `diaHtml()` / `diaPop()` / `diaPopFechar()` (popup do dia na 🧭 Digital em `-dev`), `montar(root, opts)` (visualizador no Radar `okr(-dev).html?gantt`), `inscricao()` (nó `kanban/gantt_inscritos(_dev)/{cal}/{uid}`, botão 🔔 Avisar-me), `PEDIDO` / `pedido()` (botão 📣 Pedir atualização, aviso `gantt_pedido` com deduplicação diária).

diff --git a/CODE_MAP_FAST.md b/CODE_MAP_FAST.md
@@ -110,10 +110,10 @@
 - *... (+94 em docs/CODE_SYMBOLS.md)*
 
 ### `painel-dev.html` (65 âncoras curadas)
-- `getEffectiveRole` (L7177) · `updateSquadUserRole` (L11659) · `openGlobalUsersModal` (L11126) · `updateUserRole` (L10507) · `_limparHtmlStatus` (L7312) · `_linkSeguroStatus` (L7325)
-- `_statusIncidenteRecente` (L7333) · `_setStatusPill` (L7340) · `initGithubStatusMonitor` (L7295) · `loadGithubStatus` (L7349) · `renderGithubStatusUI` (L7399) · `_fbMatchServicos` (L7600)
-- `initFirebaseStatusMonitor` (L7630) · `loadFirebaseStatus` (L7644) · `renderFirebaseStatusUI` (L7711) · `loadAgentesExternosPainel` (L9599) · `renderAgentesExternosPainel` (L9611) · `criarAgenteExternoPainel` (L9679)
-- `toggleAgenteExternoSquad` (L9736) · `_fillAgentesLogSquadFilter` (L9768) · `loadAgentesTabData` (L9775) · `renderAgentesAtivosGrid` (L9799) · `renderAgentesLogCross` (L9824) · `closeAgentesHelp` (L9858)
+- `getEffectiveRole` (L7177) · `updateSquadUserRole` (L11663) · `openGlobalUsersModal` (L11130) · `updateUserRole` (L10511) · `_limparHtmlStatus` (L7316) · `_linkSeguroStatus` (L7329)
+- `_statusIncidenteRecente` (L7337) · `_setStatusPill` (L7344) · `initGithubStatusMonitor` (L7299) · `loadGithubStatus` (L7353) · `renderGithubStatusUI` (L7403) · `_fbMatchServicos` (L7604)
+- `initFirebaseStatusMonitor` (L7634) · `loadFirebaseStatus` (L7648) · `renderFirebaseStatusUI` (L7715) · `loadAgentesExternosPainel` (L9603) · `renderAgentesExternosPainel` (L9615) · `criarAgenteExternoPainel` (L9683)
+- `toggleAgenteExternoSquad` (L9740) · `_fillAgentesLogSquadFilter` (L9772) · `loadAgentesTabData` (L9779) · `renderAgentesAtivosGrid` (L9803) · `renderAgentesLogCross` (L9828) · `closeAgentesHelp` (L9862)
 - *... (+41 em docs/CODE_SYMBOLS.md)*
 
 ### `okr-dev.html` (9 âncoras curadas)

diff --git a/CHANGELOG.md b/CHANGELOG.md
@@ -24,7 +24,7 @@ completo, incluindo commits antigos sem PR/descrição detalhada).
 
 ## kanban.html (produção)
 
-### SÓ DEV — 🎲 Quando termina? · previsão em teste no Fluxo (painel v5.123-dev) — 2026-11-18
+### SÓ DEV — 🎲 Quando termina? · previsão em teste no Fluxo (painel v5.123-dev, #1853) — 2026-11-18
 
 - Na aba 🌊 Fluxo do Painel, o piloto **Quando termina?** estima a data para concluir um lote sob o selo **Estimativa em teste**. A previsão usa entregas verificáveis em Concluído, inclusive arquivadas, e roda no navegador com os dados já carregados.
 - Mostra a data P85, o P50 nos detalhes e o motivo quando o histórico ou o horizonte não permitem estimar. O piloto fica restrito a Dados e IA e ao squad de teste.
